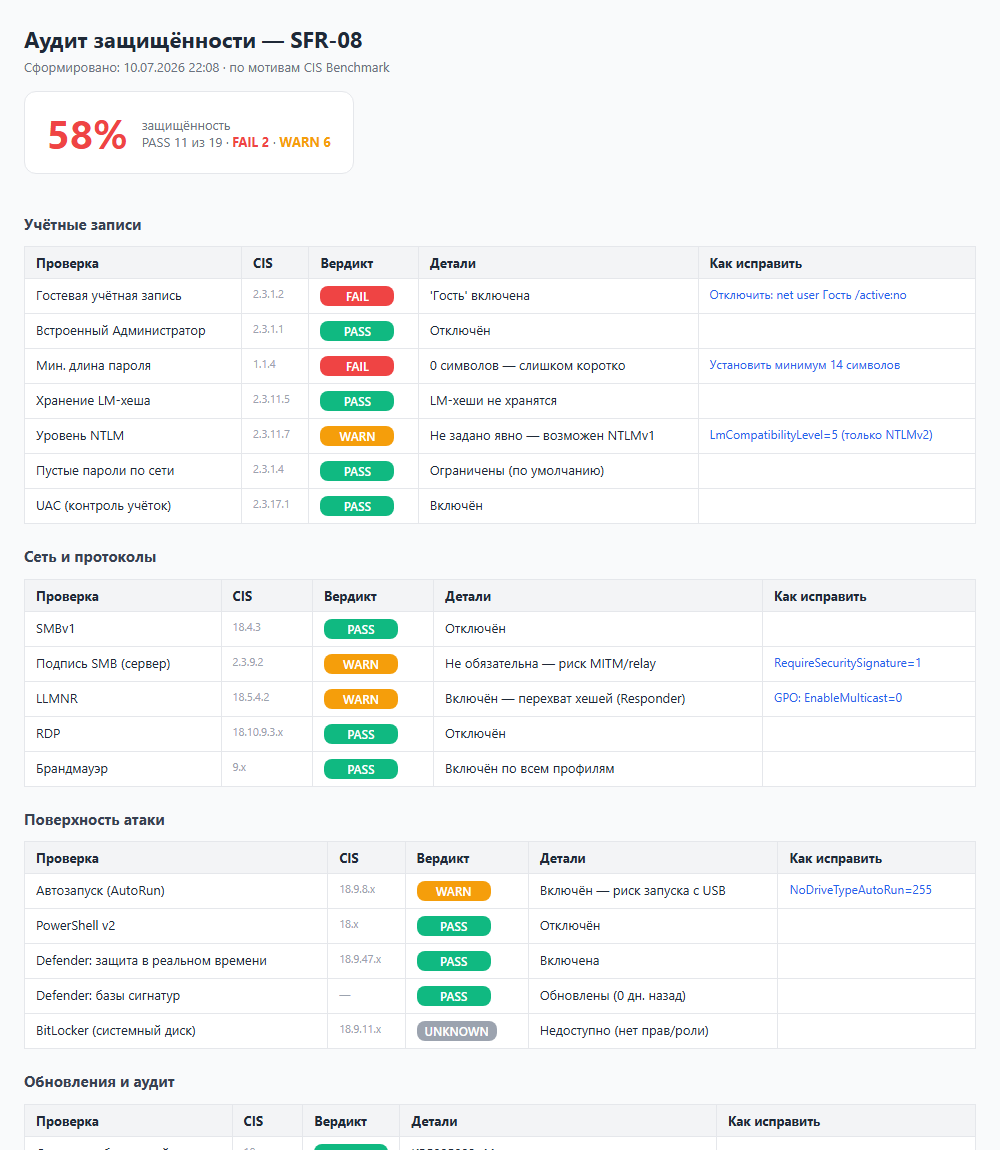
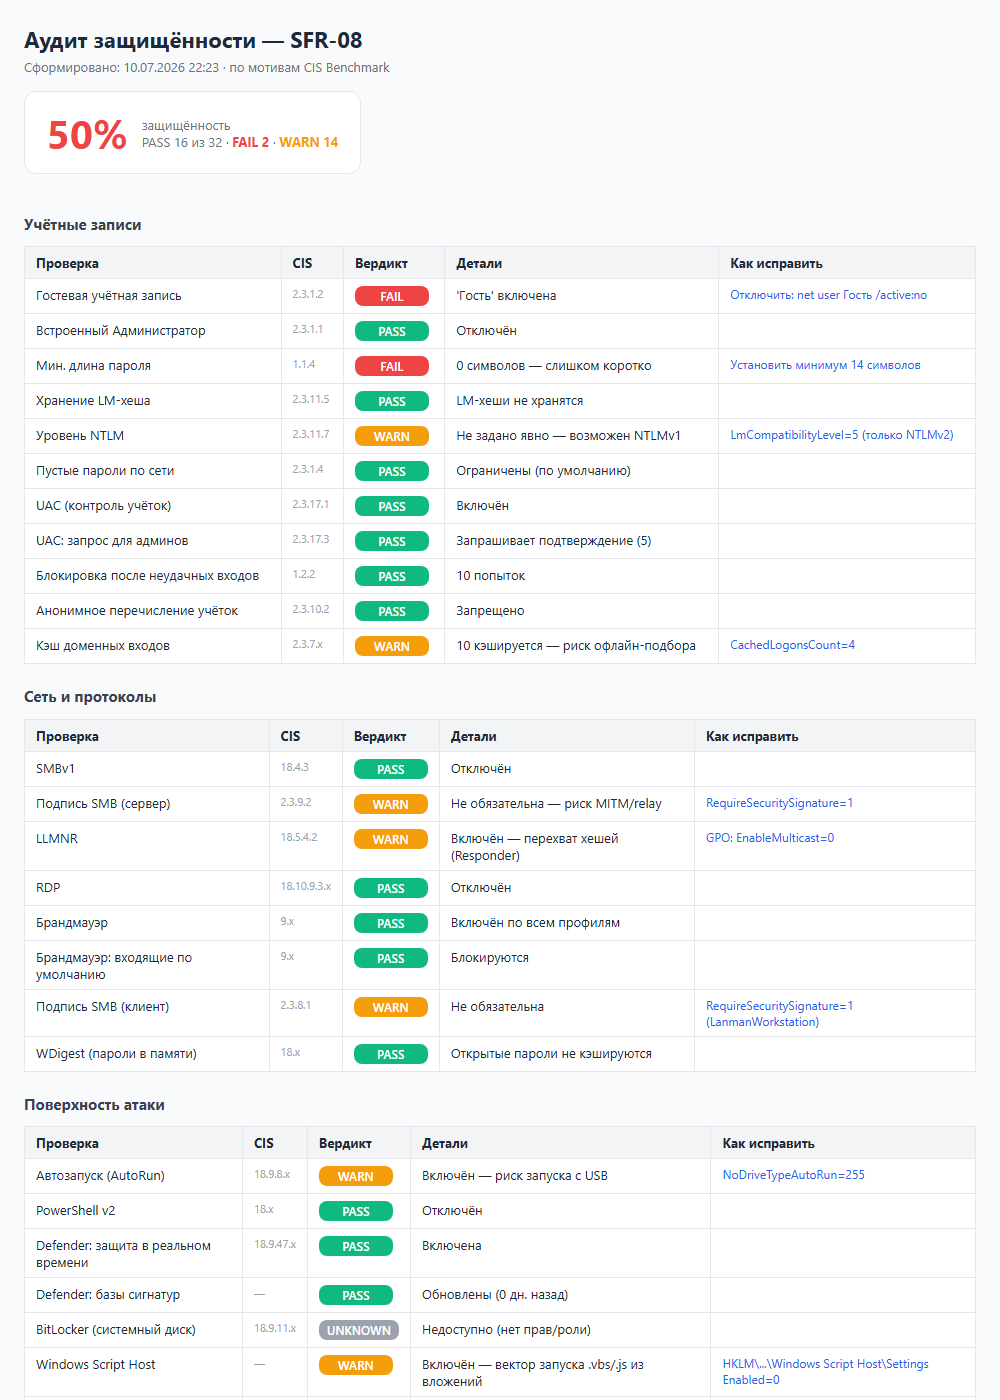
Expand hardening audit to ~34 CIS checks
Added: UAC admin prompt, account lockout, anonymous SAM, cached logons,
SMB client signing, WDigest, default inbound firewall, WSH, AutoPlay,
Credential Guard, Defender ASR, PS module logging, screen-lock timeout.

diff --git a/README.md b/README.md
@@ -39,7 +39,7 @@
 ### Безопасность
 | Скрипт | Что делает |
 |---|---|
-| [Invoke-WindowsHardeningAudit.ps1](Invoke-WindowsHardeningAudit.ps1) | ⭐ Глубокий аудит по мотивам CIS Benchmark: ~25 проверок по категориям, итоговая оценка в %, ссылки на разделы CIS и колонка «как исправить» |
+| [Invoke-WindowsHardeningAudit.ps1](Invoke-WindowsHardeningAudit.ps1) | ⭐ Глубокий аудит по мотивам CIS Benchmark: ~34 проверки по категориям, итоговая оценка в %, ссылки на разделы CIS и колонка «как исправить» |
 | [Test-SecurityBaseline.ps1](Test-SecurityBaseline.ps1) | Быстрый чеклист гигиены (9 базовых пунктов): SMBv1, RDP+NLA, брандмауэр, BitLocker, LLMNR, UAC, обновления, гостевая учётка, PowerShell v2 |
 
 ### Настройка Windows